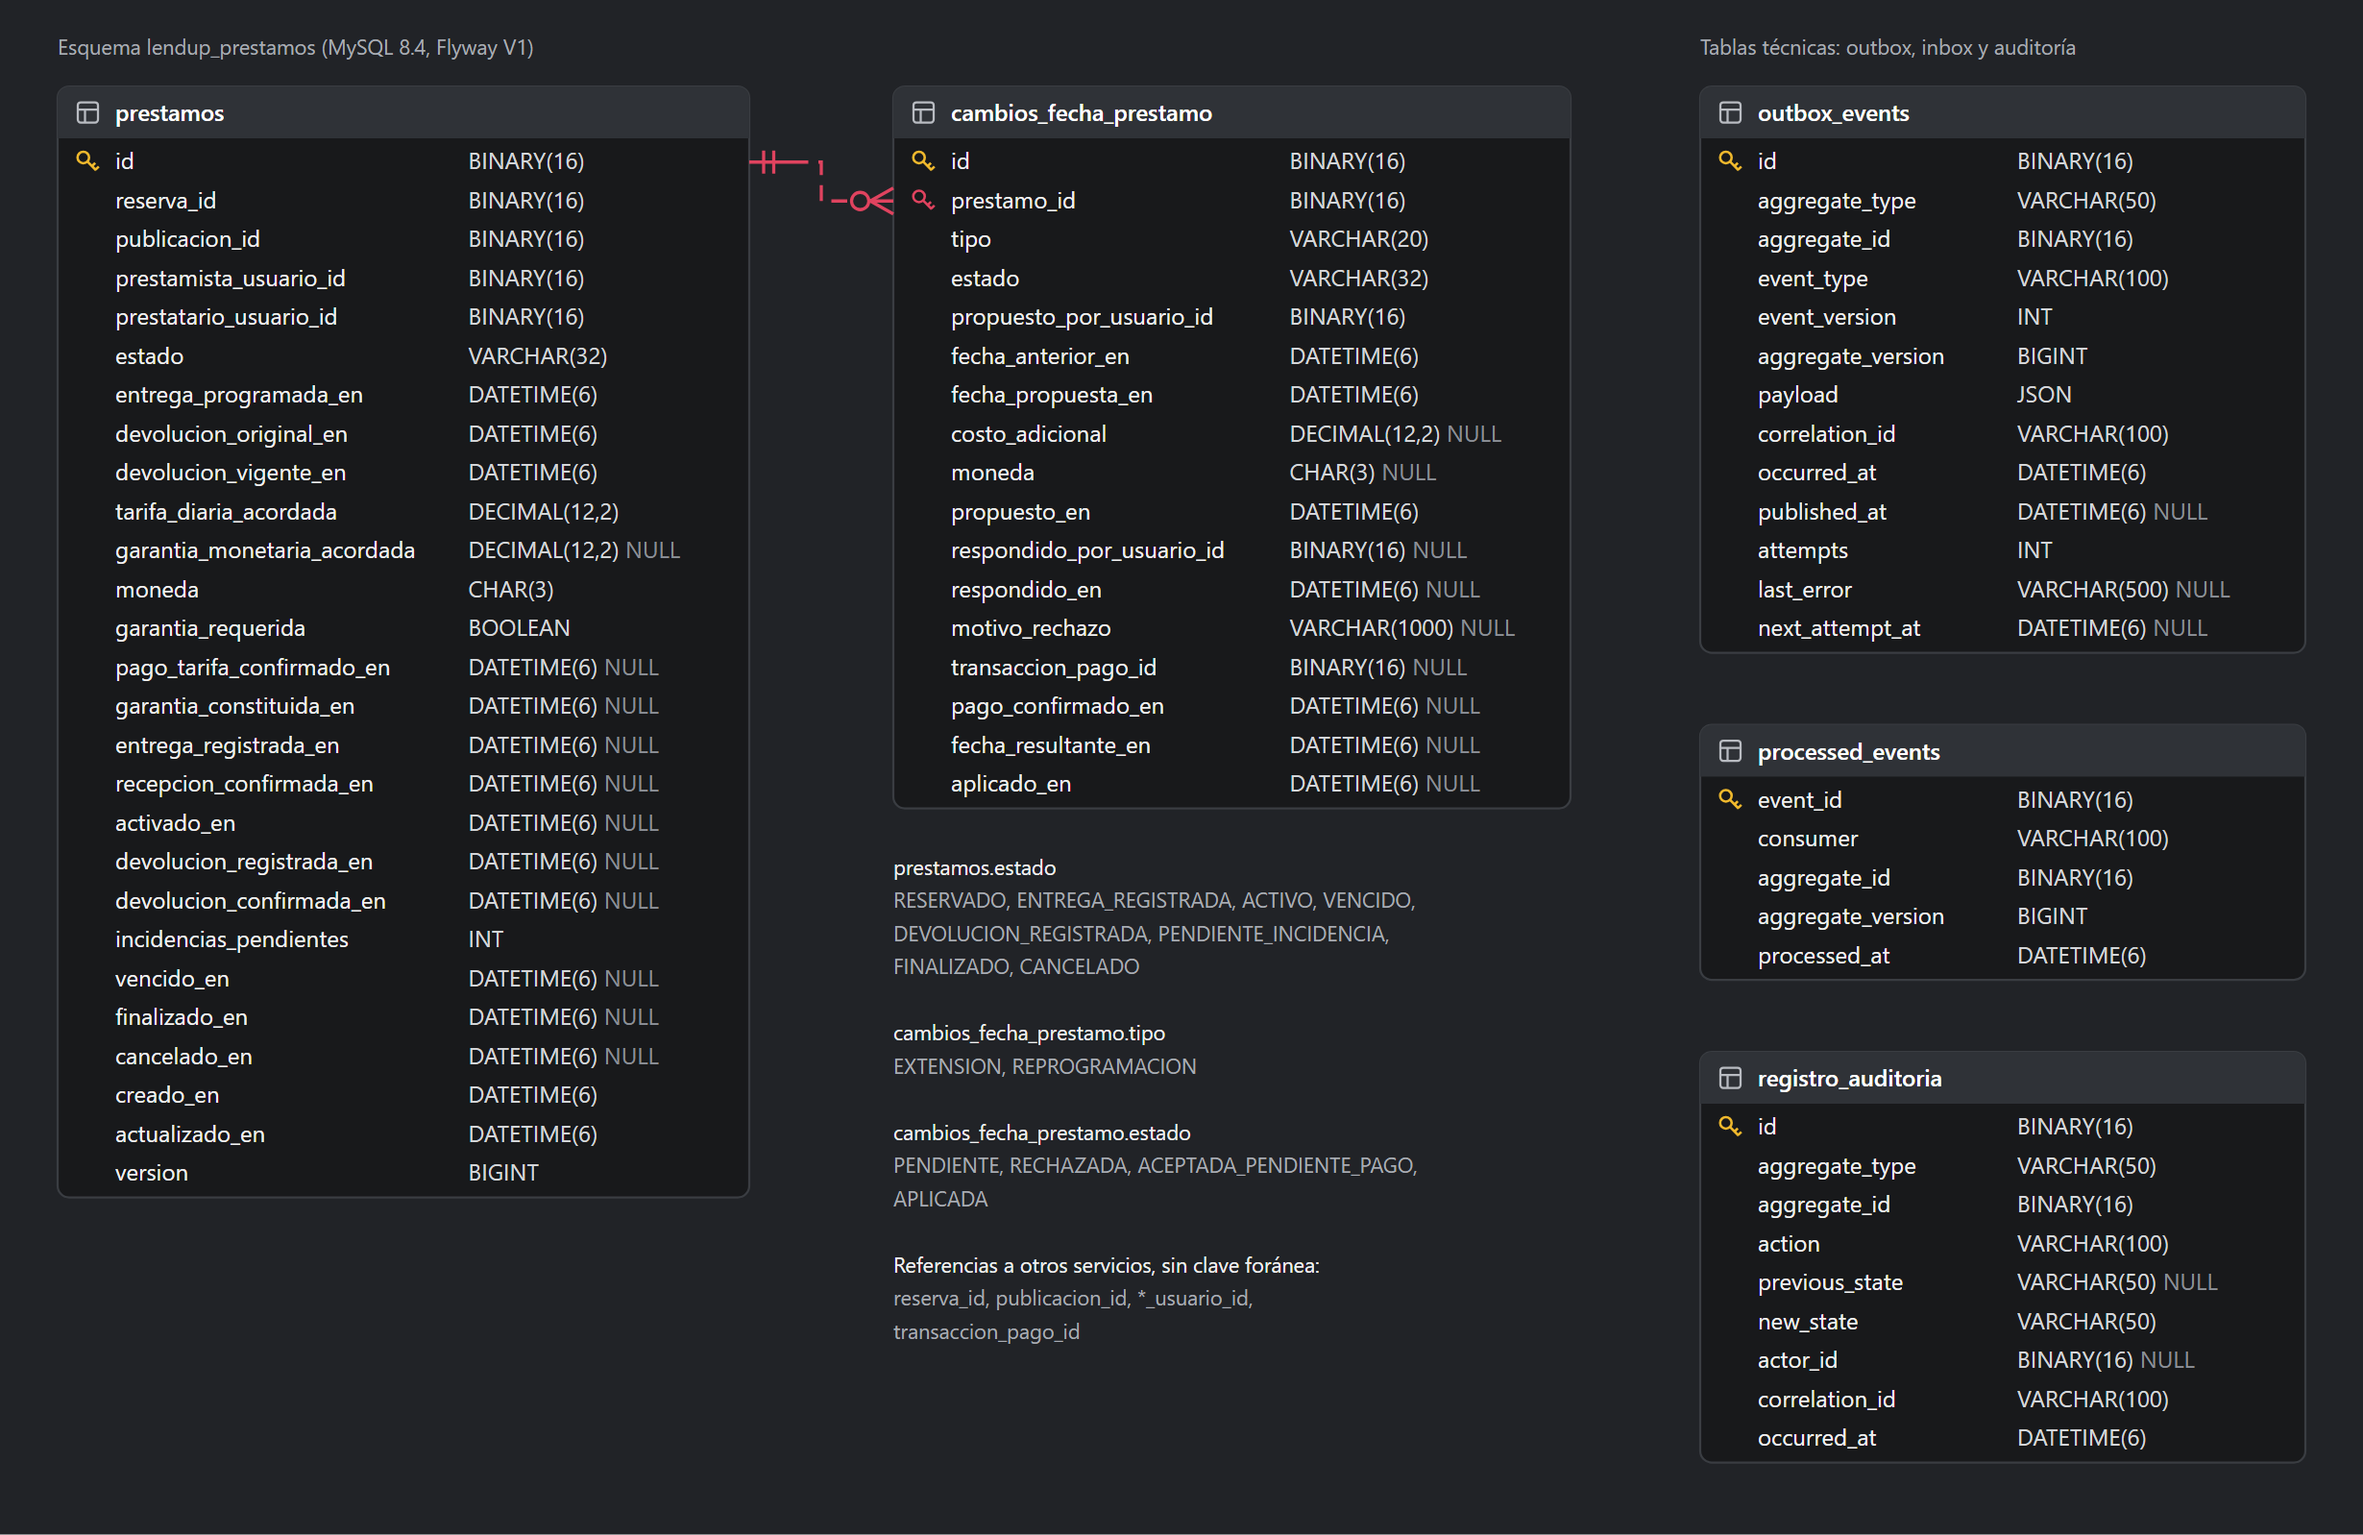
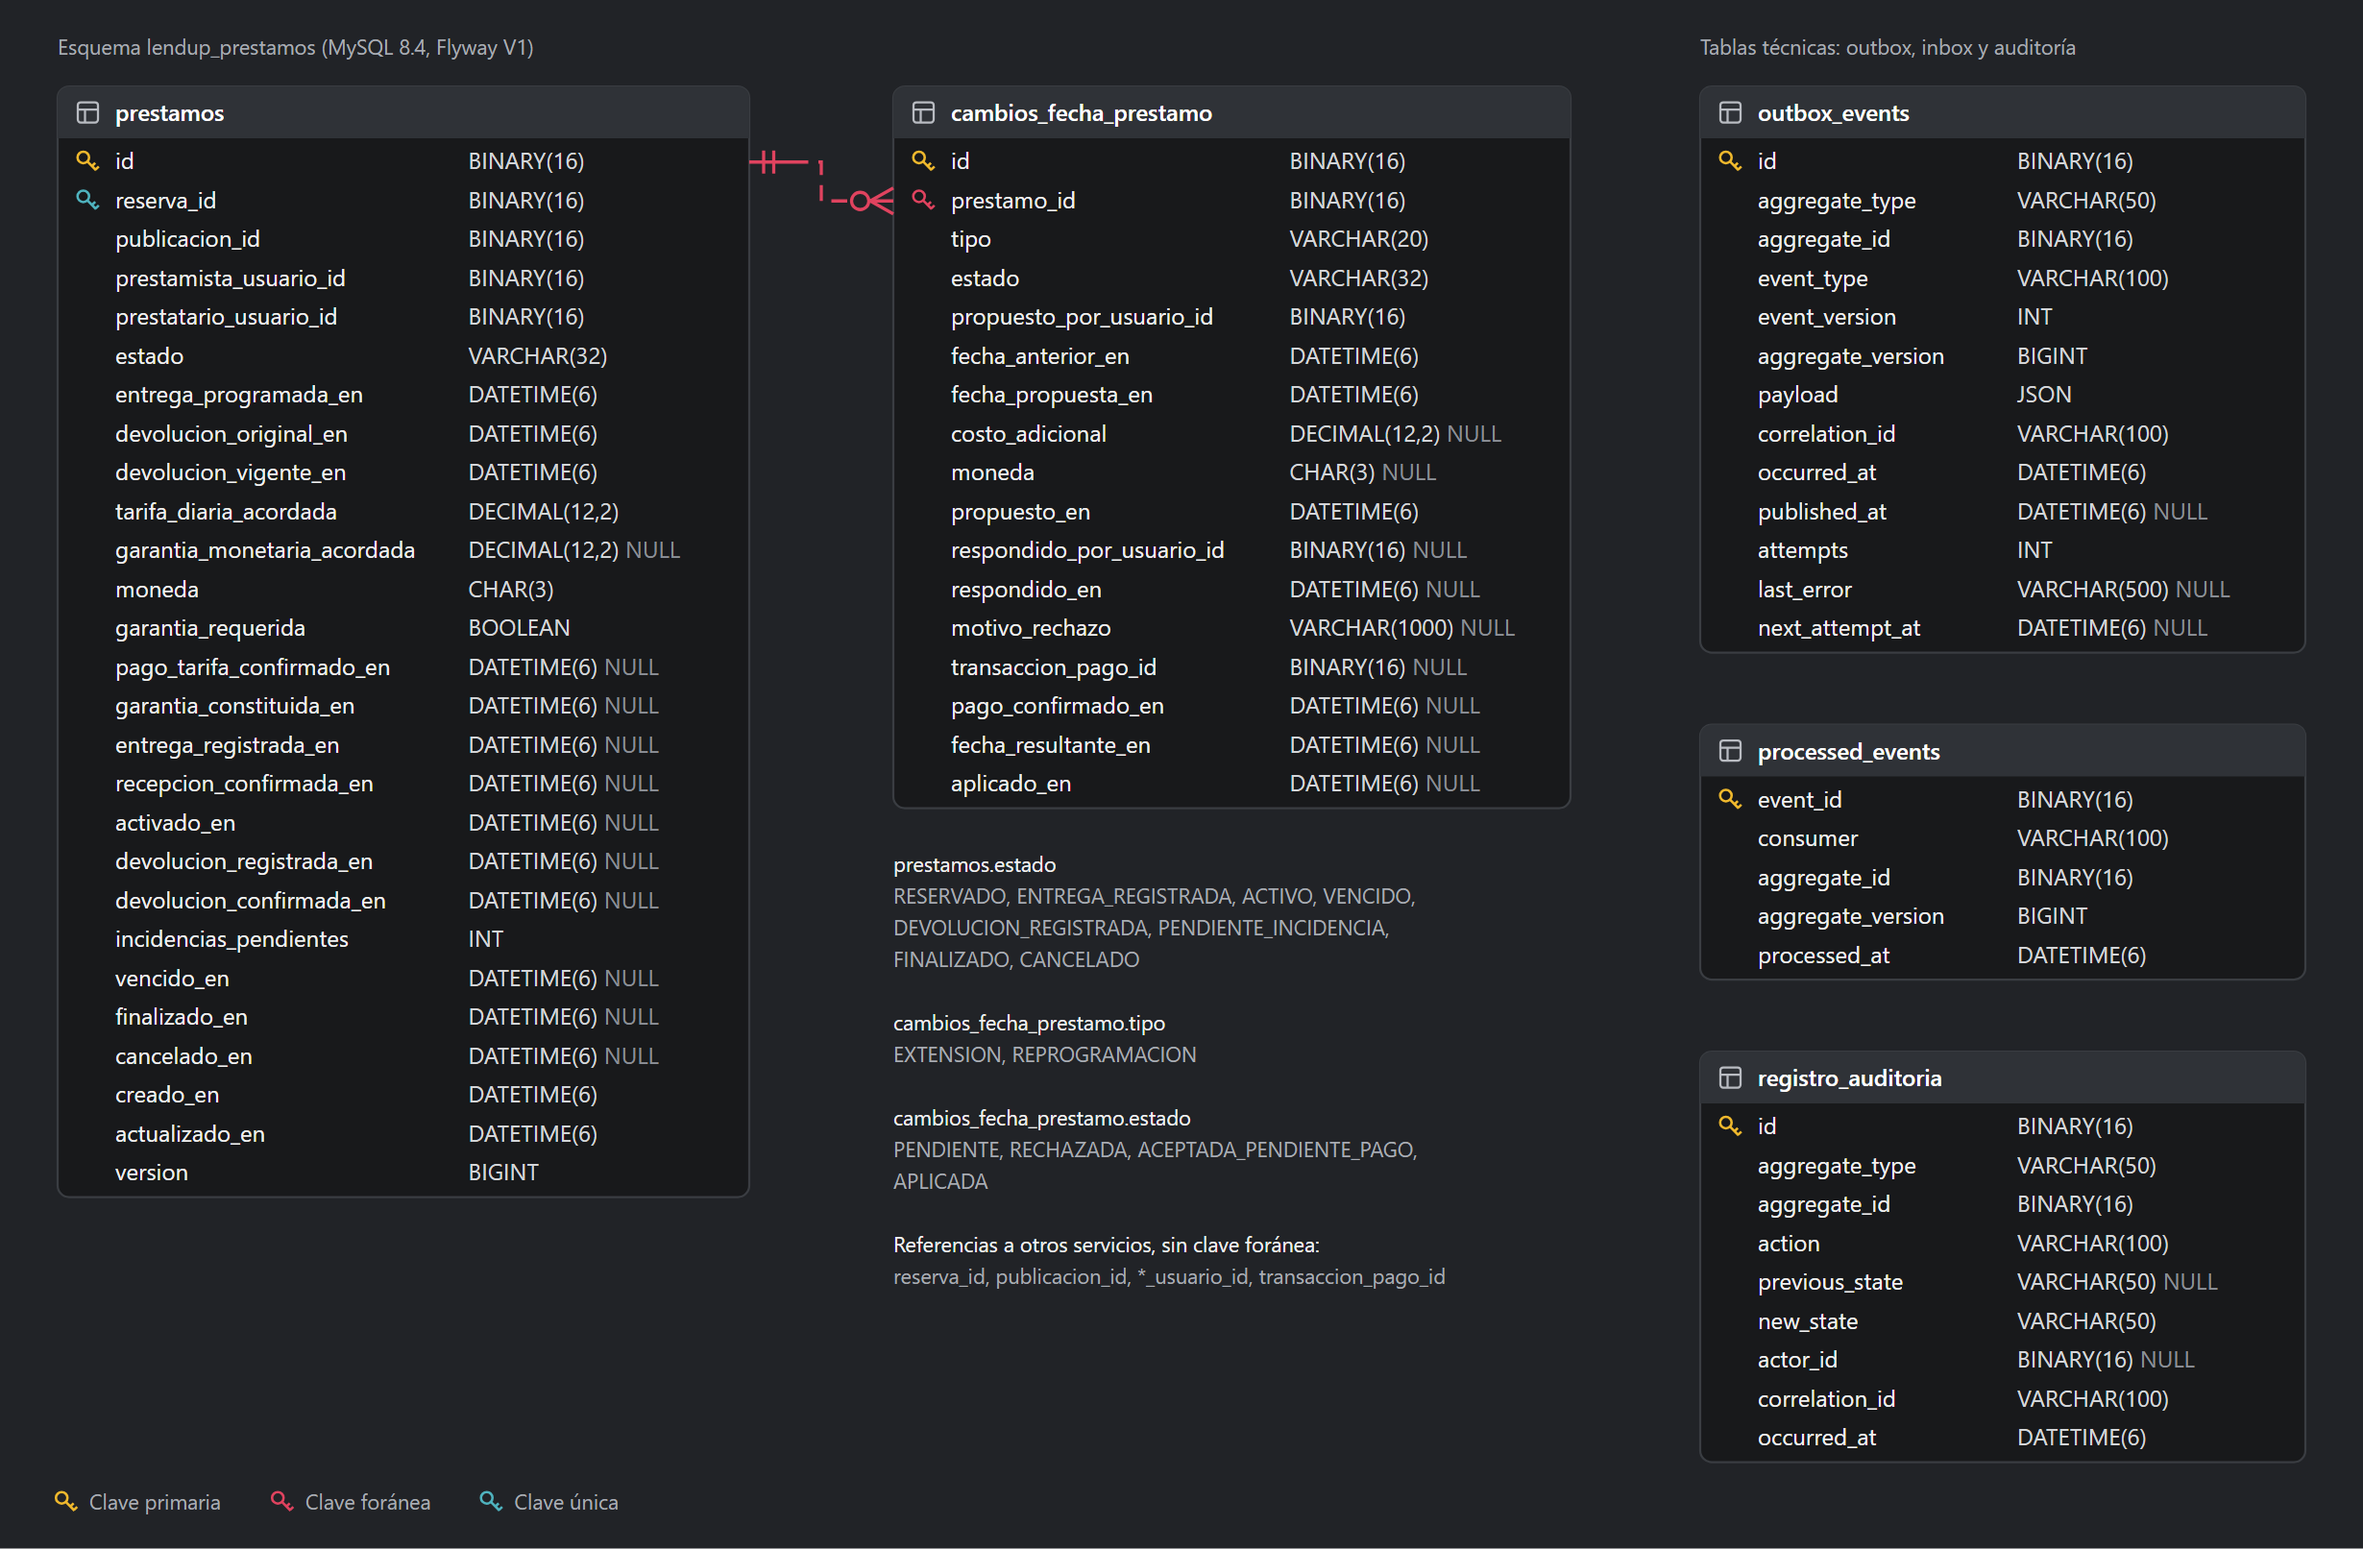
docs(loans): simplify component diagram and add state and class diagrams

diff --git a/docs/architecture.md b/docs/architecture.md
@@ -12,23 +12,19 @@ Préstamos posee `prestamos`, `cambios_fecha_prestamo`, outbox (`outbox_events`)
 
 | Componente del diagrama | Clase |
 |---|---|
-| Préstamos Controller | `interfaces/rest/LoanController` |
-| Préstamos Application Service | `application/service/LoanApplicationService` |
-| Consulta Préstamos Service | `application/service/LoanQueryService` |
-| Prestamo Aggregate | `domain/model/Prestamo` (con la entidad `CambioFecha`) |
-| Prestamo State | `domain/state/PrestamoState` y sus estados |
-| PoliticaDeCosto | `domain/model/PoliticaDeCosto` (Strategy) |
-| Prestamo Repository | puerto `PrestamoRepository`, adaptador `JpaPrestamoRepositoryAdapter` |
-| Loan Event Recorder | `application/service/LoanEventRecorder` + `OutboxJpaAdapter` + `AuditJpaAdapter` |
-| Outbox Relay | `infrastructure/messaging/OutboxRelay` + `ReputationEventTranslator` |
+| Préstamos Controller | `interfaces/rest/LoanController` e `InternalLoanController` (contrato que ya esperaba Reservas) |
+| Préstamos Service | `application/service/LoanApplicationService` (operaciones) y `LoanQueryService` (consultas) |
 | Préstamo Event Consumer | `infrastructure/messaging/LoanEventConsumer` |
 | Vencimiento Scheduler | `infrastructure/scheduler/OverdueScheduler` |
-| Firebase Authentication Filter y Actor Context | `config/security/FirebaseAuthenticationFilter`, `ActorContext` |
-| Internal Loan Controller | `interfaces/rest/InternalLoanController` (contrato que ya esperaba Reservas) |
-| Identidad REST Adapter | `infrastructure/client/IdentidadRestAdapter` |
-| Evidencias REST Adapter | `infrastructure/client/EvidenciasRestAdapter` (evidencias opcionales del detalle) |
+| Préstamo | `domain/model/Prestamo` con `CambioFecha`, los estados de `domain/state` (State) y `PoliticaDeCosto` (Strategy) |
+| Préstamo Repository | puerto `PrestamoRepository` |
+| Repository Implementation | `JpaPrestamoRepositoryAdapter` |
+| Domain Event Publisher | `application/service/LoanEventRecorder` + `OutboxJpaAdapter` + `AuditJpaAdapter` |
+| RabbitMQ Adapter | `infrastructure/messaging/OutboxRelay` + `ReputationEventTranslator` |
 
-`BusinessClock` (hora de Lima) no se dibuja. El flujo completo está en [diagrams/actividades.png](diagrams/actividades.png).
+Para mantener la vista simple no se dibujan `FirebaseAuthenticationFilter` y `ActorContext` (seguridad), `IdentidadRestAdapter` y `EvidenciasRestAdapter` (clientes REST) ni `BusinessClock` (hora de Lima).
+
+Otros diagramas: [estados](diagrams/estados.png), [clases](diagrams/clases.png) y [actividades](diagrams/actividades.png).
 
 Capas: `domain` (agregado, estados, reglas, sin dependencias de Spring), `application` (casos de uso y puertos), `infrastructure` (JPA/MySQL, RabbitMQ, REST, scheduler) e `interfaces/rest` (DTOs y errores).
 

diff --git a/CHANGELOG.md b/CHANGELOG.md
@@ -12,5 +12,5 @@
 - Eventos de cambios de fecha (`ExtensionSolicitada`, `ExtensionRechazada`, `ReprogramacionPropuesta`, `ReprogramacionRechazada`, `FechaDevolucionActualizada`) para avisar a la contraparte y mover los recordatorios (US21, US22, US43).
 - Copia de `PrestamoFinalizado` en el formato que exige Reputación (`REPUTATION_LOAN_FINISHED_ROUTING_KEY`).
 - Pruebas unitarias, de contrato (frontend y eventos), WireMock, Testcontainers (MySQL, RabbitMQ) y escenarios Cucumber en español (US18 a US25, US42 a US45).
-- Diagramas de base de datos, componentes y actividades en `docs/diagrams`.
+- Diagramas de base de datos, componentes, estados, clases y actividades en `docs/diagrams`.
 - Colección Postman, OpenAPI, ADRs y workflows de CI y publicación en Docker Hub.
